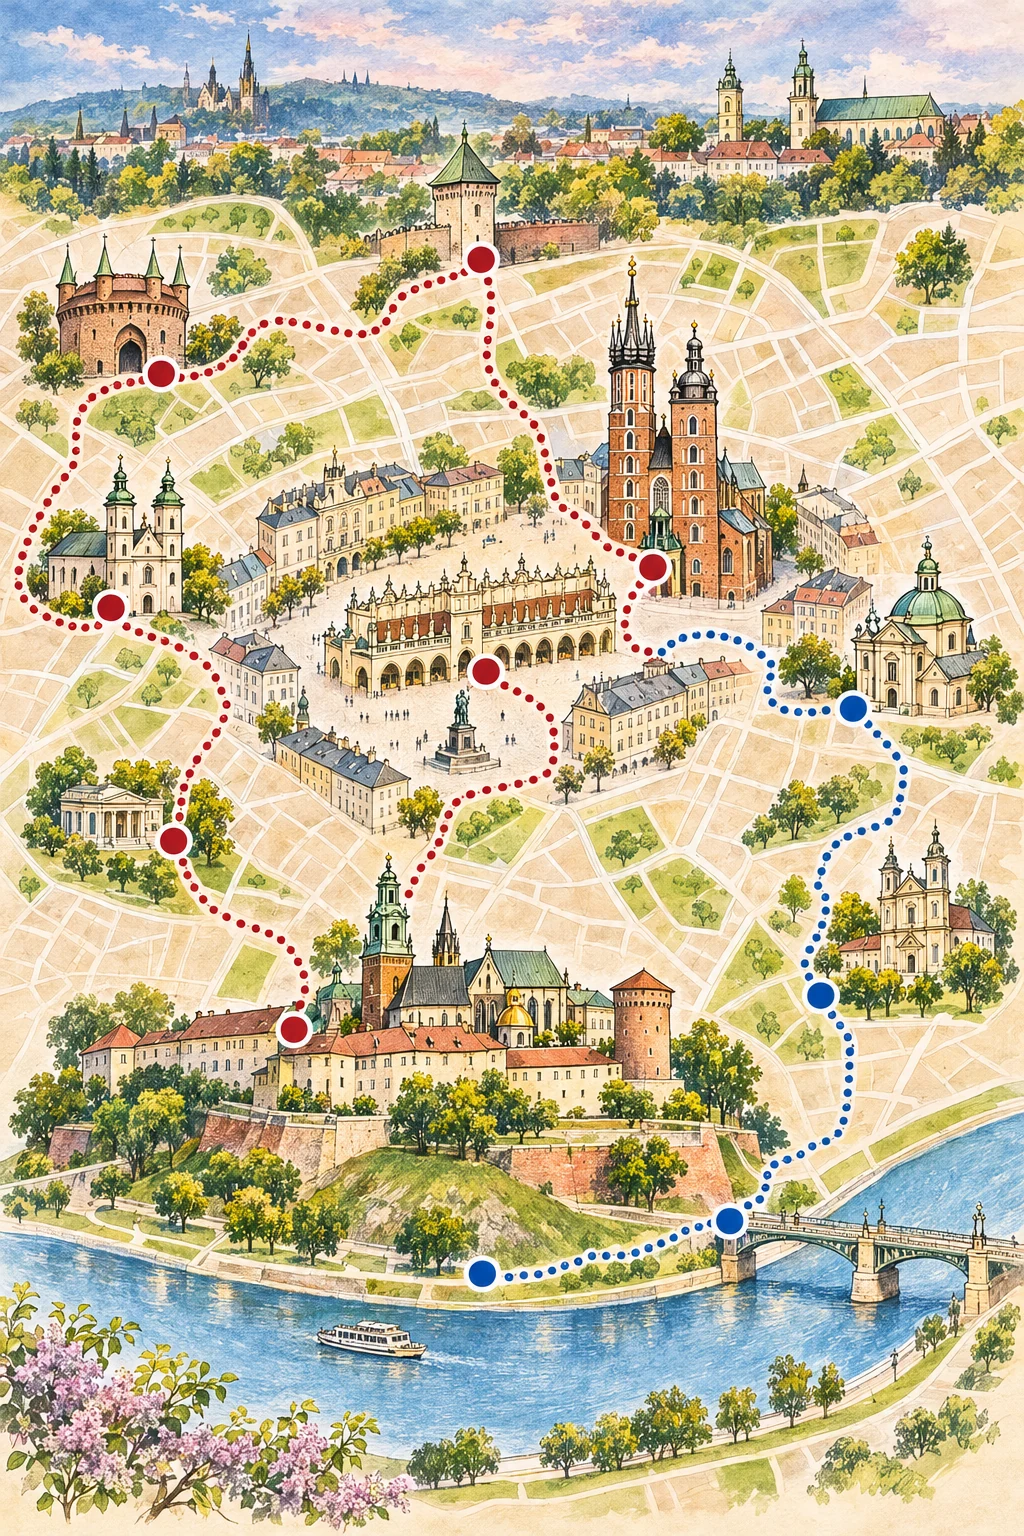
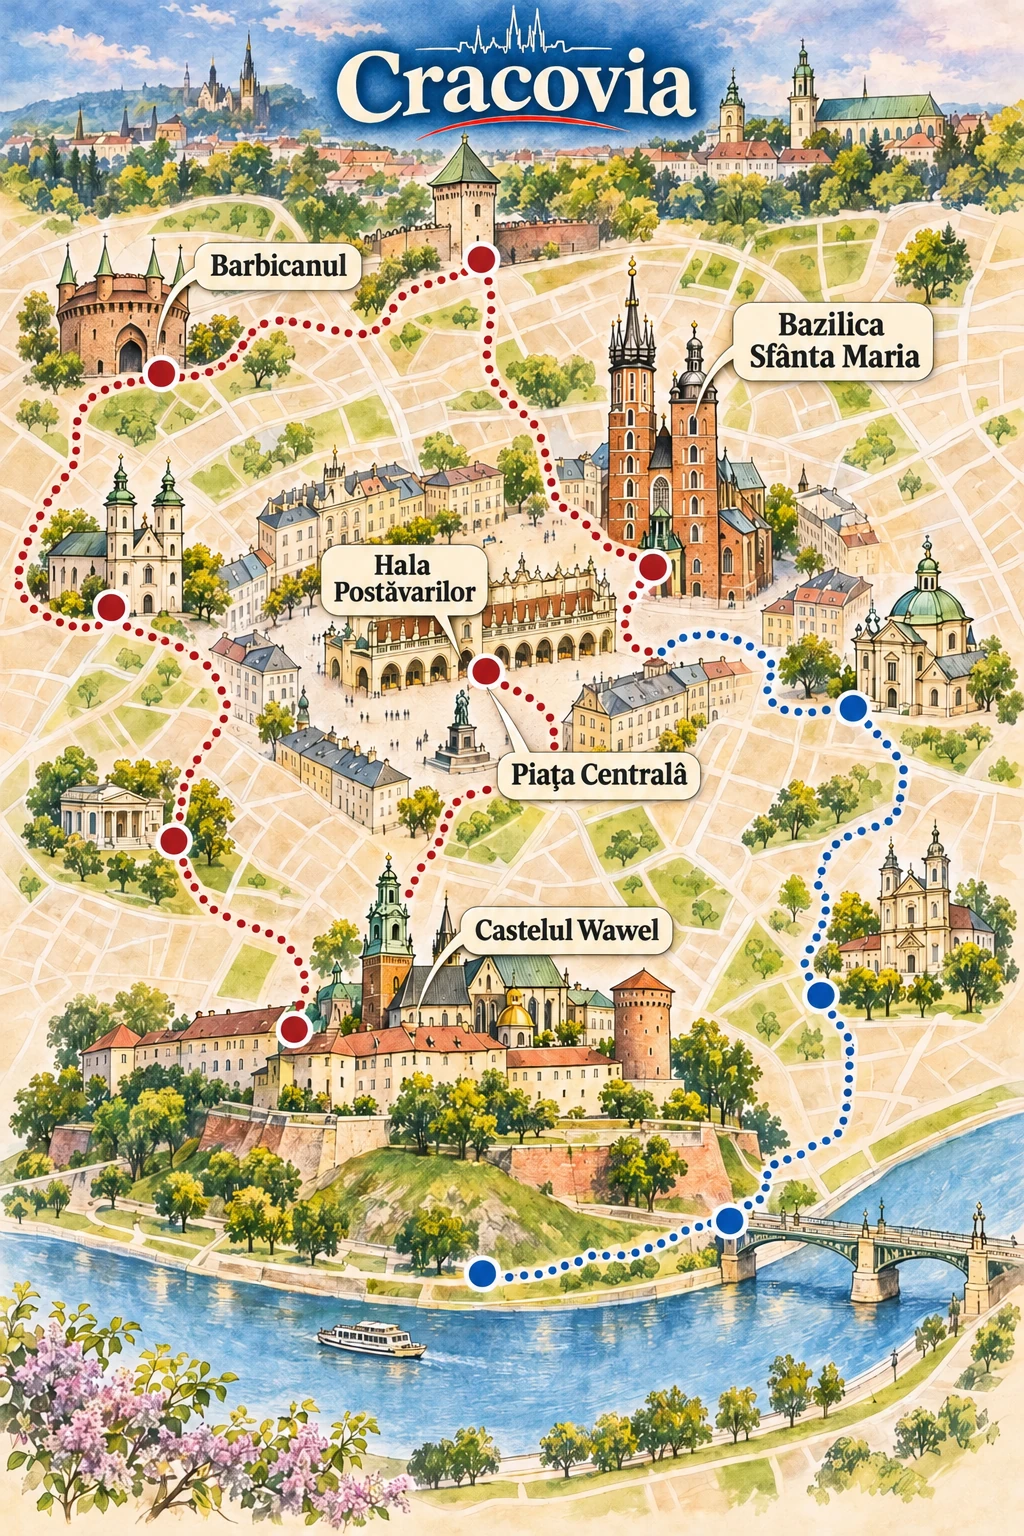
Label Krakow and Stockholm maps

diff --git a/ILUSTRATII.md b/ILUSTRATII.md
@@ -27,9 +27,11 @@ Se adaugă numele obiectivelor direct pe hărțile existente, în stilul aprobat
 - Bruges
 - Köln
 - Dublin
+- Cracovia
+- Stockholm
 
 Harta originală pentru Praga avea deja etichete. Celelalte orașe din `assets/guides-prague-style/` necesită în continuare verificare și prelucrare. Actualizează această listă în același commit cu fiecare lot nou.
 
-Ilustrațiile fără etichete sunt păstrate în istoricul Git: pentru Roma și Barcelona folosește fișierul de la commitul `14f016a`, iar pentru Paris, Londra, Lisabona, Berlin și Bruxelles de la `508e691`. Pentru Budapesta, Atena, Veneția, Amsterdam, Viena, Milano, Madrid, Bologna, Lyon, Porto, Varșovia, Copenhaga, Edinburgh, Bruges, Köln și Dublin se pot folosi originalele de la `48efdd5`. Copii locale sunt în `/workspace/guide-batch/original-illustrations` când acel director este disponibil. Păstrează imaginile originale pentru quiz.
+Ilustrațiile fără etichete sunt păstrate în istoricul Git: pentru Roma și Barcelona folosește fișierul de la commitul `14f016a`, iar pentru Paris, Londra, Lisabona, Berlin și Bruxelles de la `508e691`. Pentru Budapesta, Atena, Veneția, Amsterdam, Viena, Milano, Madrid, Bologna, Lyon, Porto, Varșovia, Copenhaga, Edinburgh, Bruges, Köln, Dublin, Cracovia și Stockholm se pot folosi originalele de la `48efdd5`. Copii locale sunt în `/workspace/guide-batch/original-illustrations` când acel director este disponibil. Păstrează imaginile originale pentru quiz.
 
 Nu modifica funcționalitatea de căutare a zborurilor în cadrul acestei activități.
